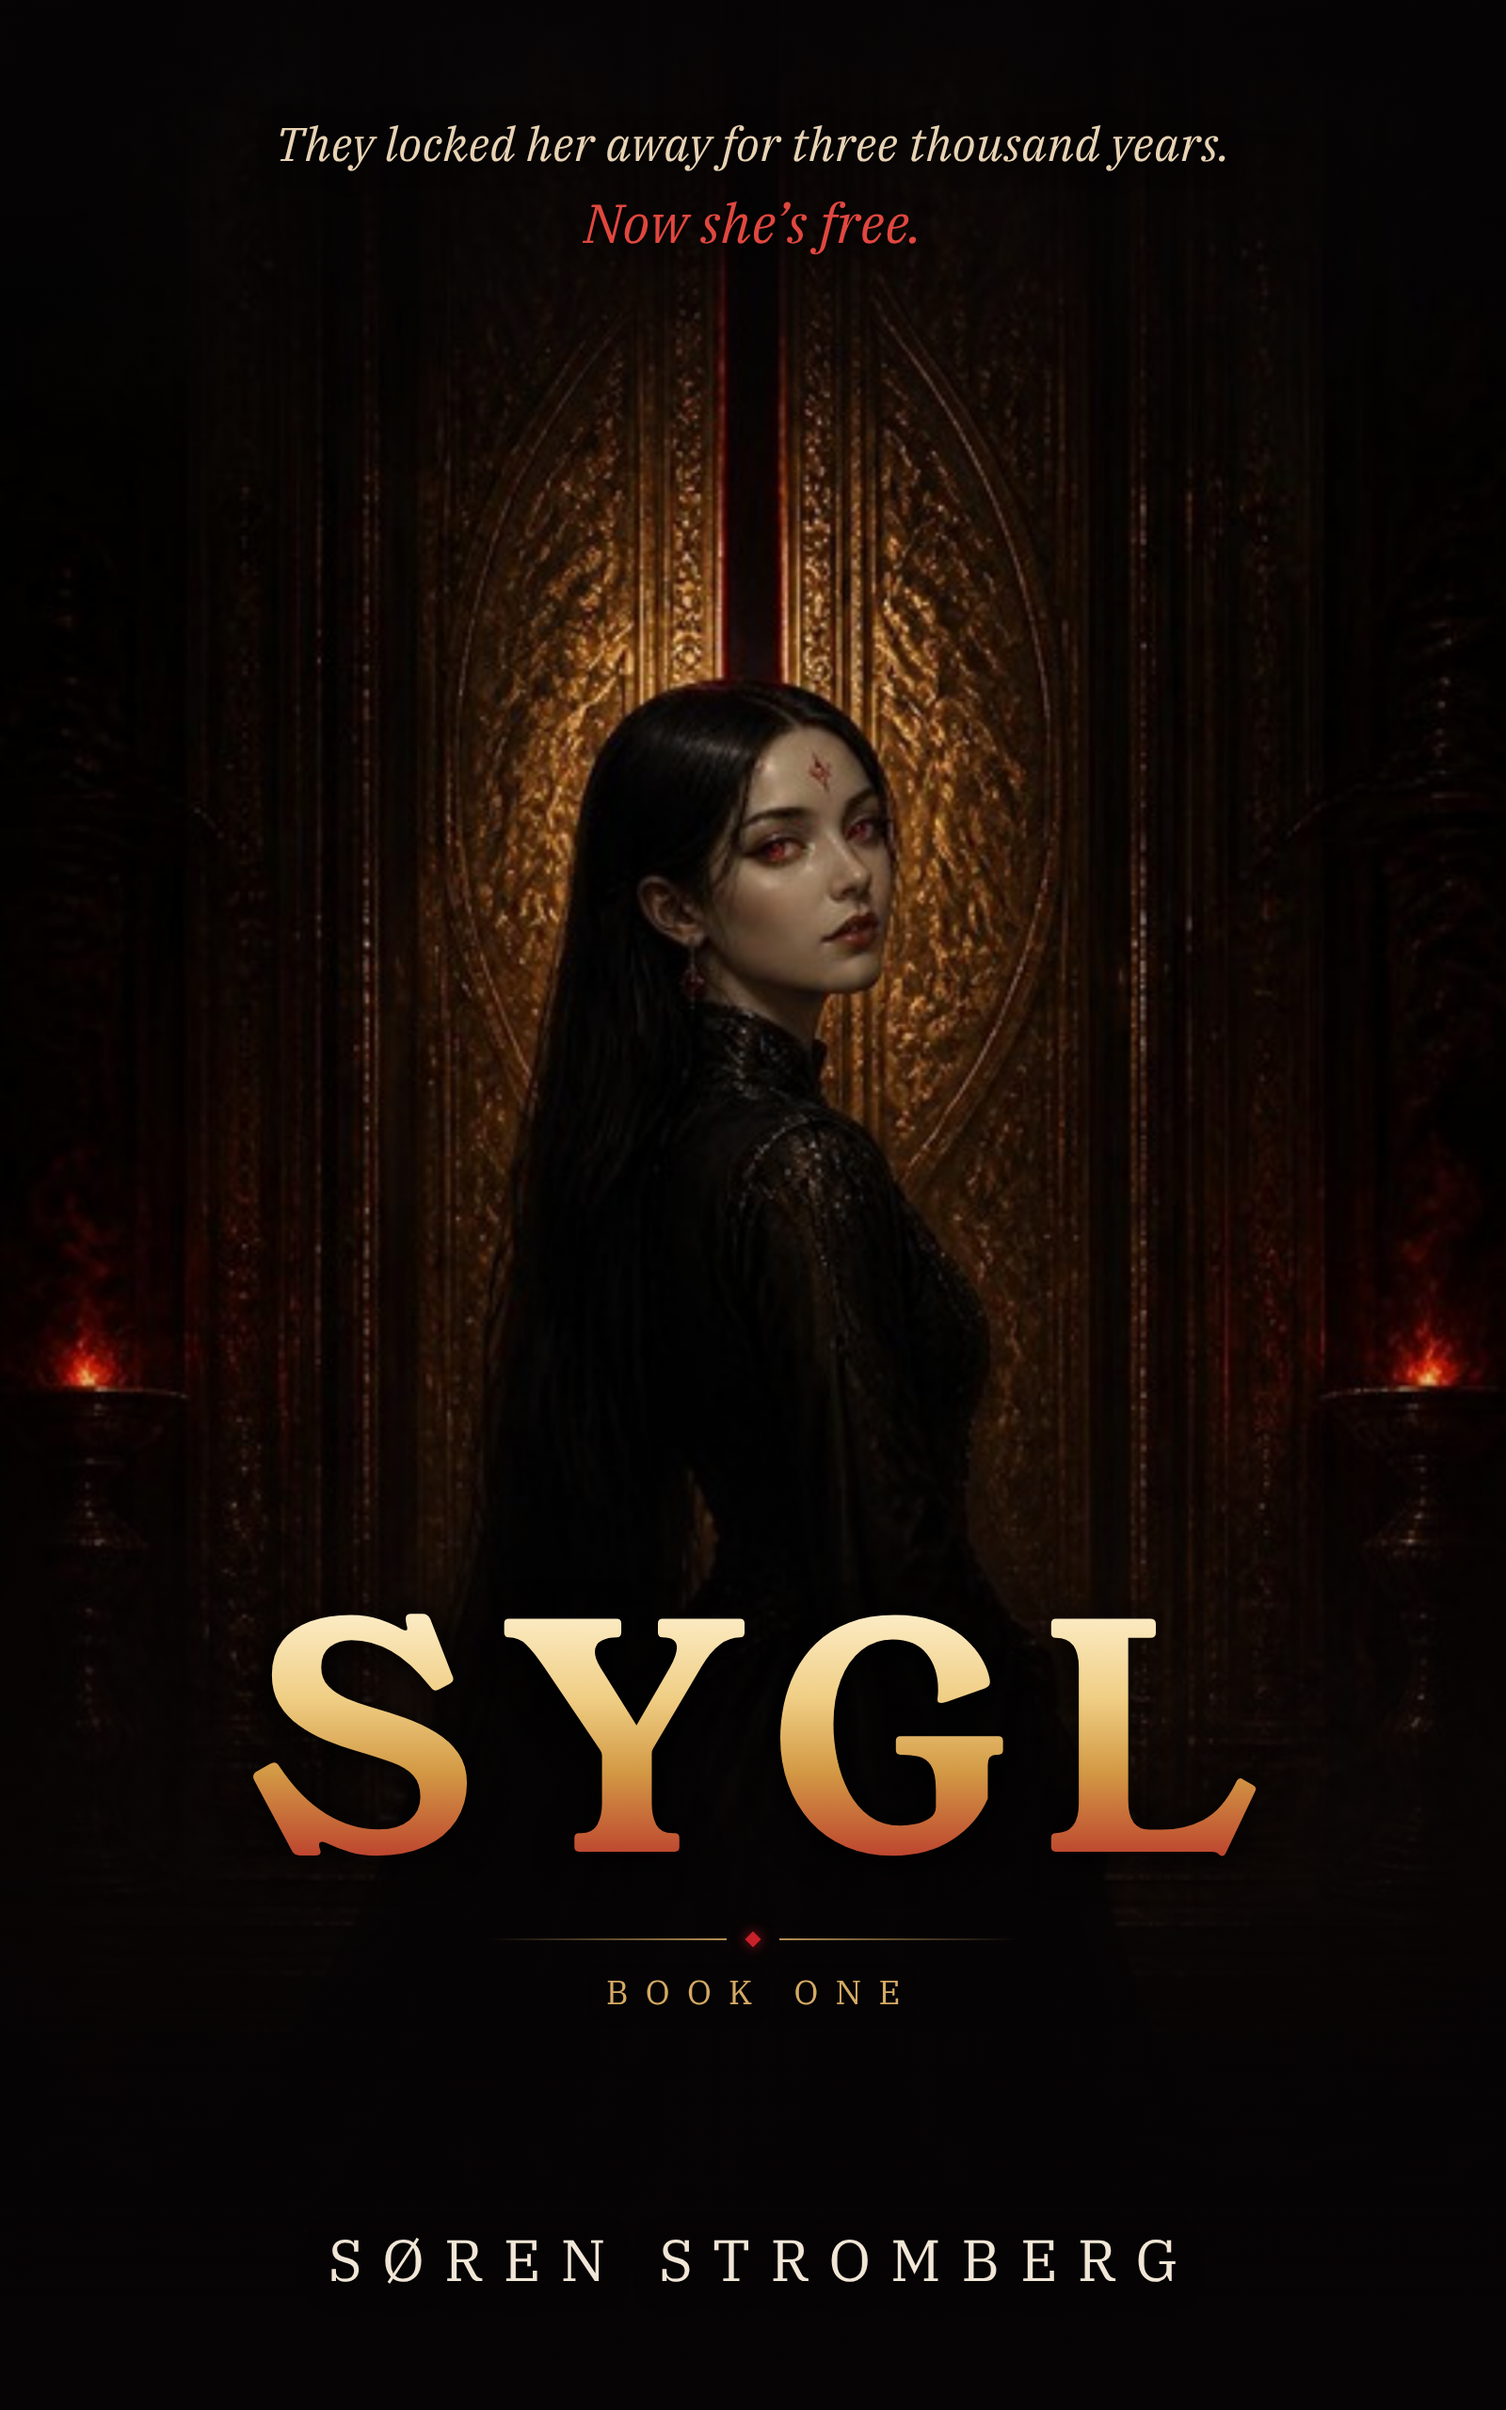
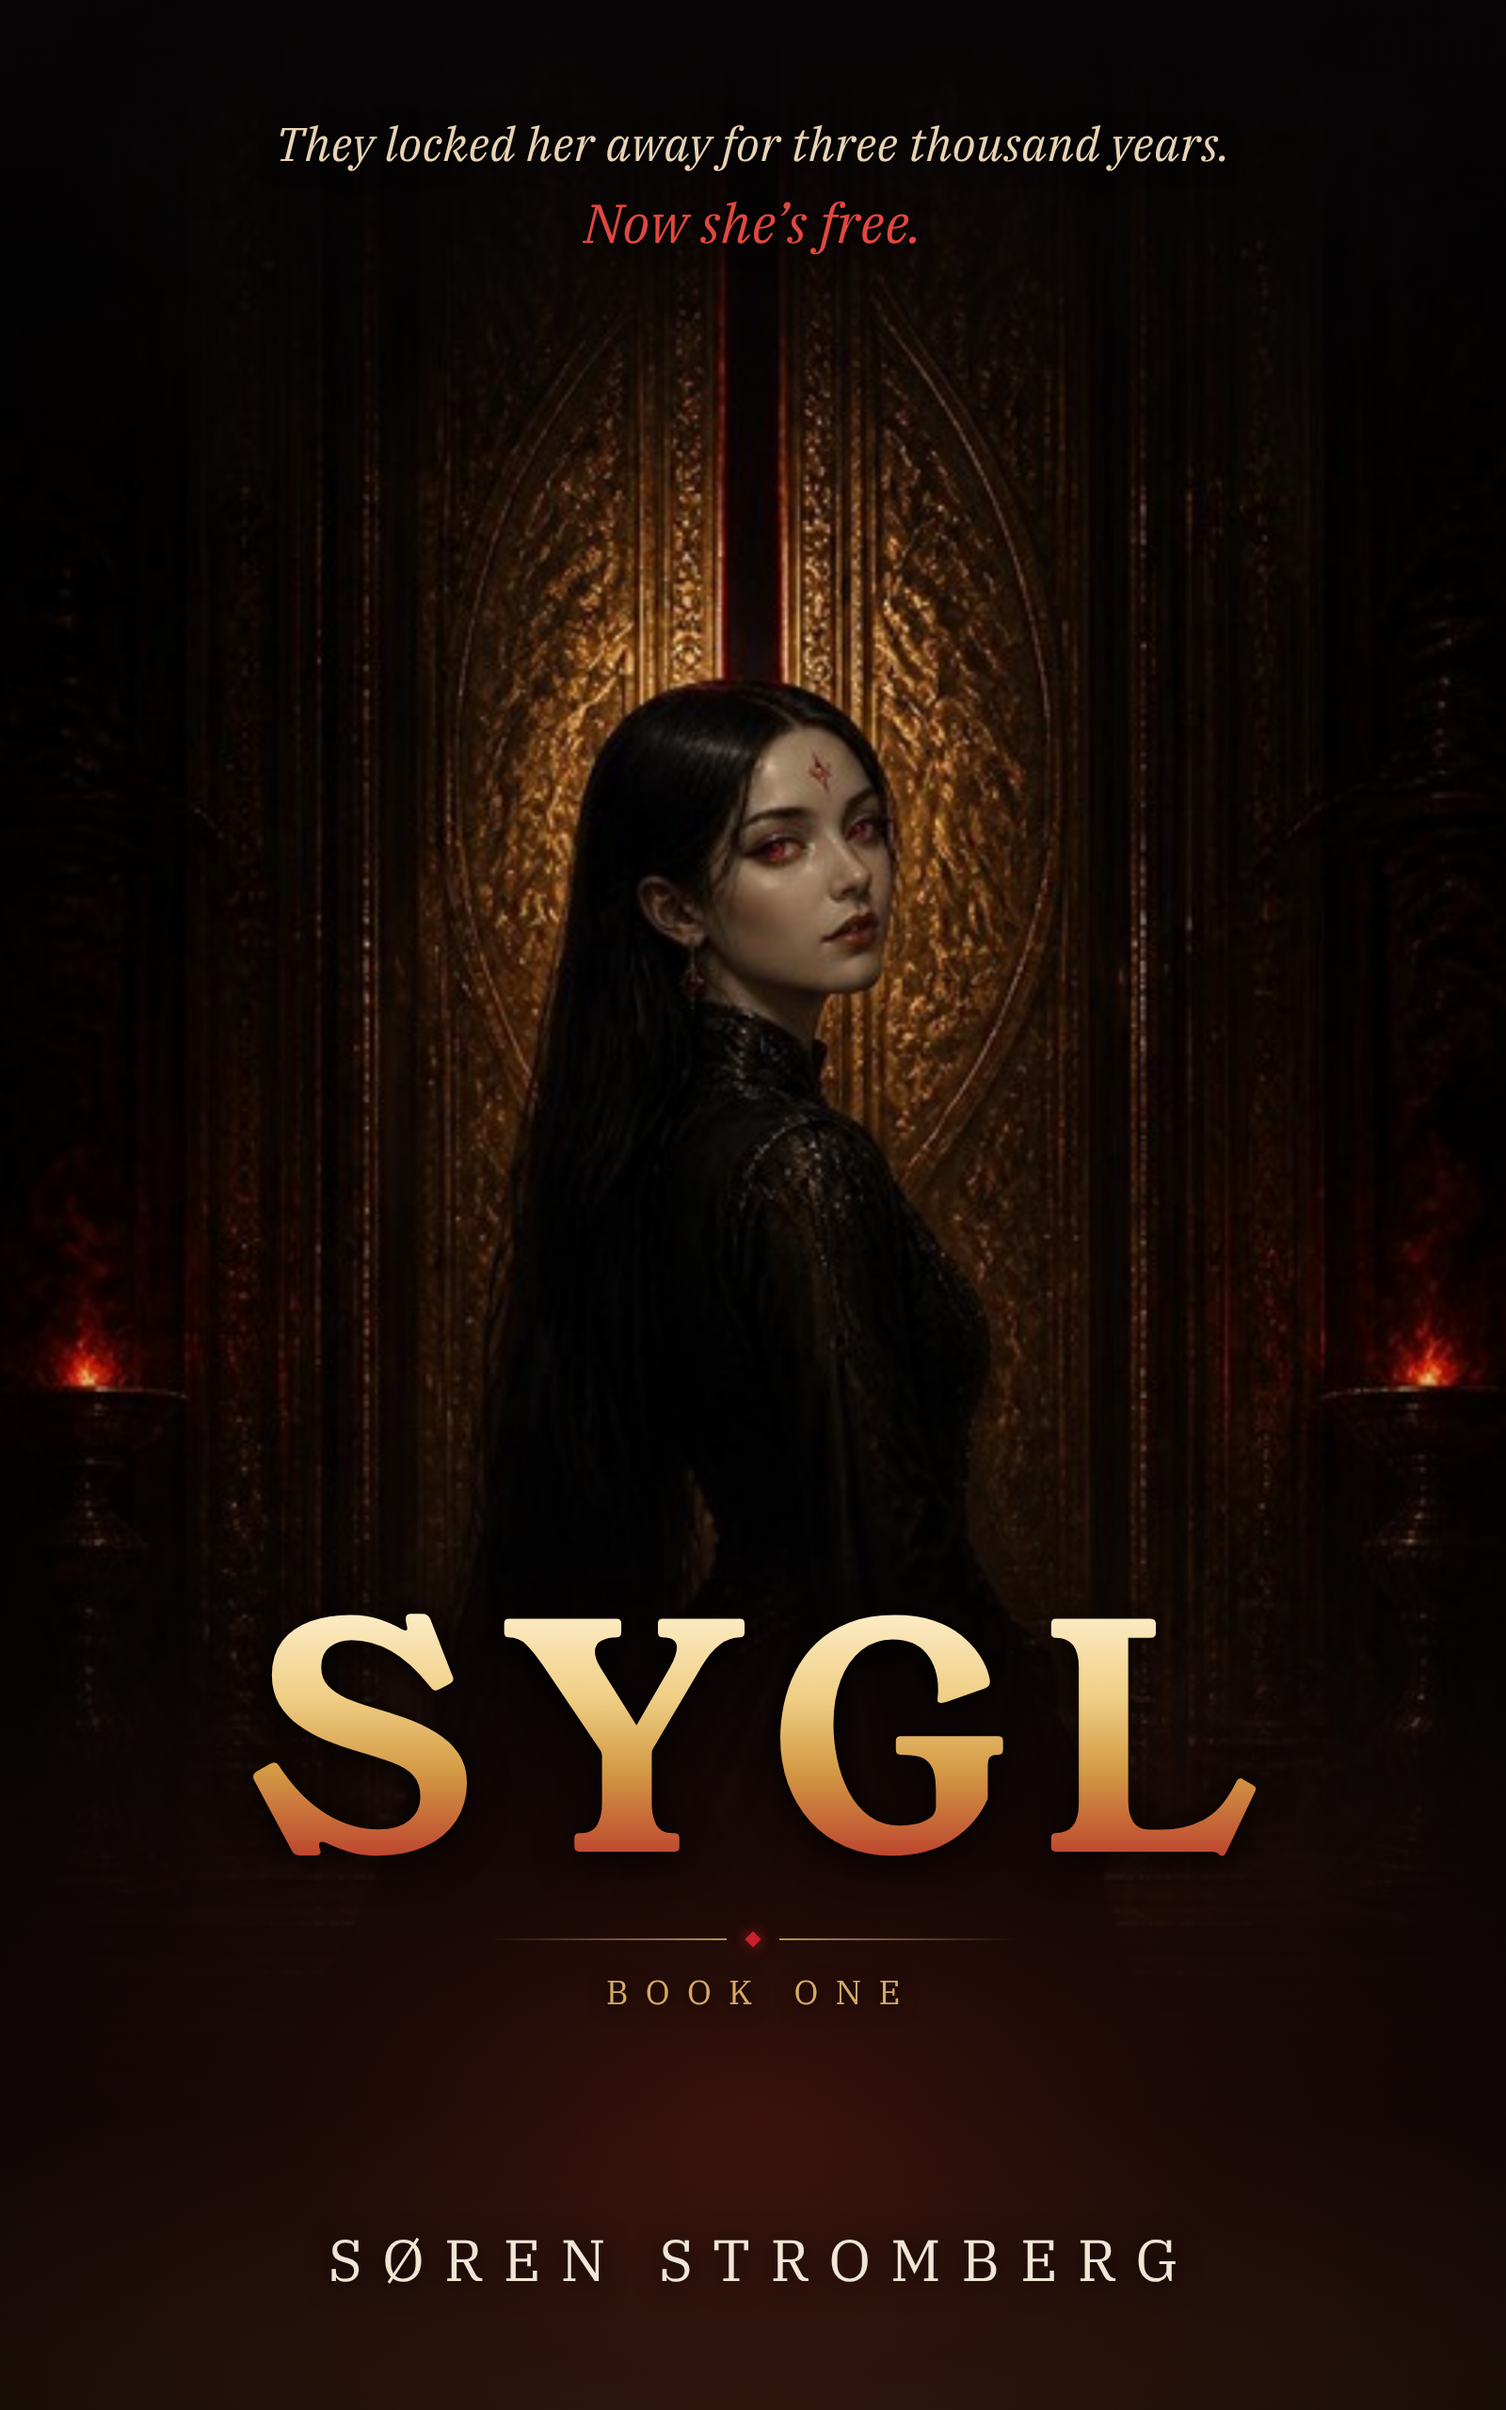
sygl: final front cover — warm ember glow lifts the near-black bottom band (author choice)
Claude-Session: https://claude.ai/code/session_01MetXDMH6Unw5Vo9qwmYXWn

Changed region(s): [[0.0938, 0.7812, 0.9062, 1.0]]

diff --git a/books/sygl-book/delivery/cover/compose_cover.py b/books/sygl-book/delivery/cover/compose_cover.py
@@ -30,6 +30,9 @@ html,body{{width:{W}px;height:{H}px;background:#070405;}}
   background:linear-gradient(180deg,rgba(7,4,5,.85) 0%,rgba(7,4,5,.45) 55%,rgba(7,4,5,0) 100%);}}
 .scrim{{position:absolute;left:0;right:0;bottom:0;height:1150px;
   background:linear-gradient(180deg,rgba(7,4,5,0) 0%,rgba(7,4,5,.45) 30%,rgba(7,4,5,.82) 58%,rgba(7,4,5,.94) 100%);}}
+.glow{{position:absolute;left:0;right:0;bottom:0;height:1100px;
+  background:radial-gradient(ellipse 70% 55% at 50% 72%,rgba(170,52,24,.30) 0%,rgba(120,30,18,.16) 45%,rgba(0,0,0,0) 100%),
+  radial-gradient(ellipse 120% 30% at 50% 100%,rgba(150,90,40,.18) 0%,rgba(0,0,0,0) 100%);}}
 .tag{{position:absolute;left:0;right:0;top:120px;text-align:center;font-family:'PlexI';font-size:50px;
   color:#e8d3b4;letter-spacing:.01em;filter:drop-shadow(0 3px 12px rgba(0,0,0,.95));}}
 
@@ -50,7 +53,7 @@ html,body{{width:{W}px;height:{H}px;background:#070405;}}
   filter:drop-shadow(0 3px 14px rgba(0,0,0,.95));}}
 </style></head><body>
 <div class="cover">
-  <div class="top"></div><div class="scrim"></div>
+  <div class="top"></div><div class="scrim"></div><div class="glow"></div>
   <div class="tag">{TAGLINE}<div class="tag2">{TAGLINE2}</div></div>
   <div class="titleblock">
     <div class="main">Sygl</div>
